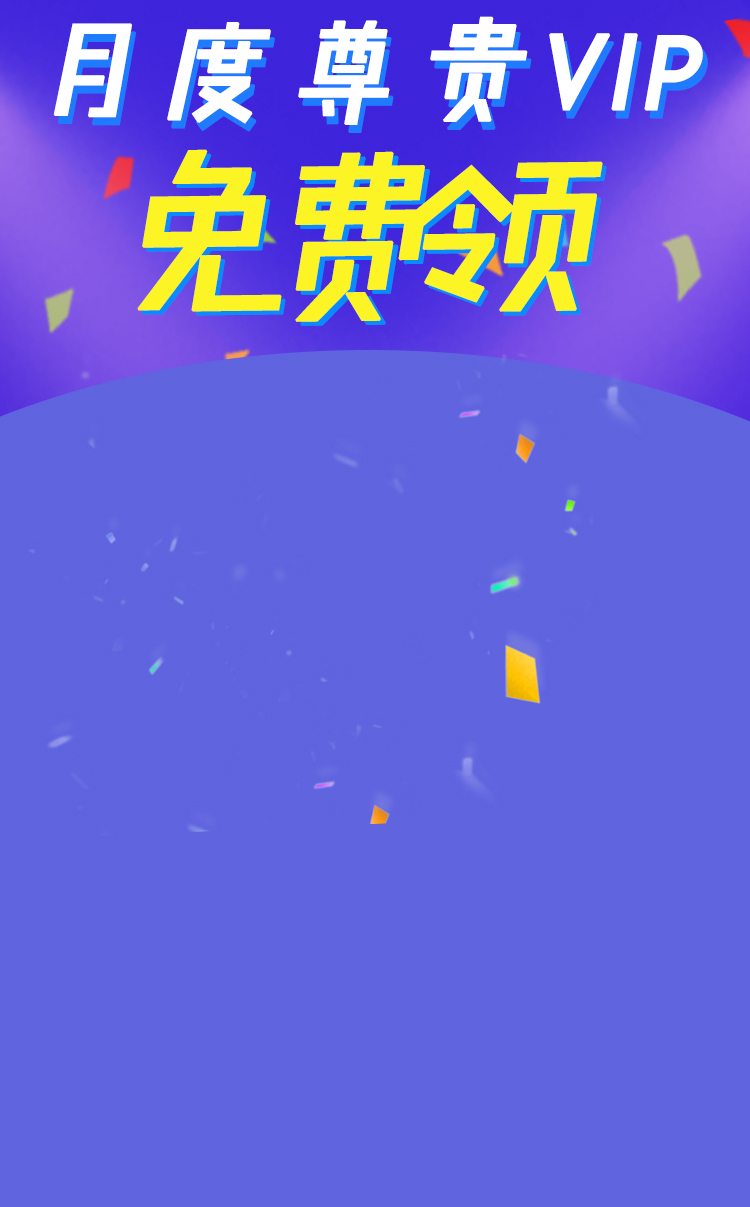
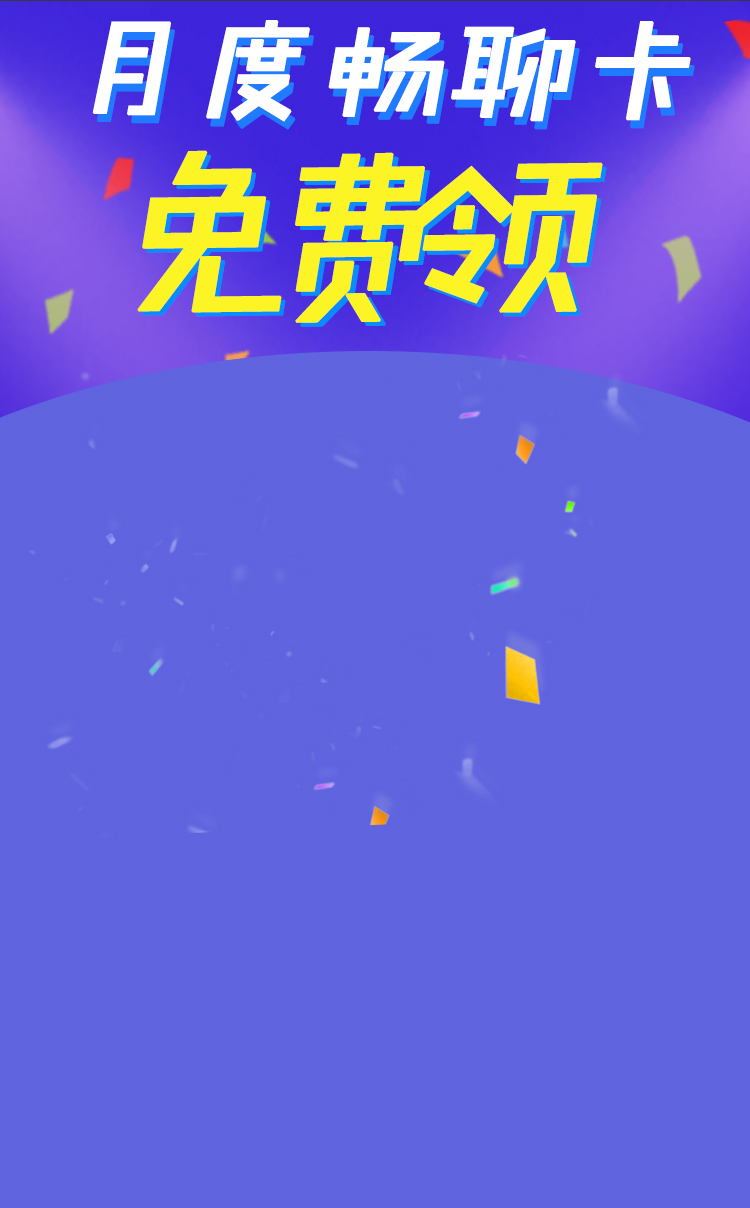
zp

diff --git a/mobile/web/js/cut_price.js b/mobile/web/js/cut_price.js
@@ -9,22 +9,23 @@ require(['jquery', 'mustache', "alpha"],
 			shade: $(".m-popup-shade"),
 			main: $(".m-popup-main"),
 			content: $(".m-popup-content"),
+			last_openid: $("#LAST_OPENID").val(),
+			openid: $("#OPENID").val(),
+			is_share: $("#IS_SHARE").val(),
 		};
 
-
 		var CutUtil = {
-			alert: $(".santa-alert"),
-			content: $(".santa-alert .content"),
-			url: '',
-			gid: '',
-			desc: '',
+			tmp: $("#tpl_item").html(),
+			UL: $(".cut_items ul"),
+			loading: 0,
 			init: function () {
 				var util = this;
+				util.load_cut_list();
 				$sls.main.on(kClick, function () {
 					util.toggle(0);
 				});
 				$(".btn_one_dao").on(kClick, function () {
-					util.toggle(1);
+					util.cut_one_dao();
 				});
 			},
 			toggle: function (f) {
@@ -36,6 +37,53 @@ require(['jquery', 'mustache', "alpha"],
 					$sls.main.hide();
 					$sls.shade.fadeOut();
 				}
+			},
+			cut_one_dao: function () {
+				var util = this;
+				if (util.loading) {
+					return;
+				}
+				util.loading = 1;
+				$.post("/api/cut_price", {
+					tag: 'cut_one_dao',
+					openid: $sls.openid,
+					last_openid: $sls.last_openid,
+				}, function (resp) {
+					util.loading = 0;
+					if (resp.code == 0) {
+						var html = Mustache.render(util.tmp, resp);
+						util.UL.html(html);
+					} else if (resp.code == 128) {
+						alpha.toast(resp.msg, 1);
+						setTimeout(function () {
+							util.toggle(1);
+						}, 1000);
+					} else if (resp.code == 129) {
+						alpha.toast(resp.msg);
+					}
+				}, "json");
+
+			},
+			load_cut_list: function () {
+				var util = this;
+				if (util.loading) {
+					return;
+				}
+				util.loading = 1;
+				$.post("/api/cut_price", {
+					tag: 'load_cut_list',
+					last_openid: $sls.last_openid,
+					openid: $sls.openid,
+					is_share: $sls.is_share,
+				}, function (resp) {
+					util.loading = 0;
+					if (resp.code == 0) {
+						var html = Mustache.render(util.tmp, resp);
+						util.UL.html(html);
+					} else {
+						alpha.toast(resp.msg);
+					}
+				}, "json");
 			}
 		};
 		CutUtil.init();
@@ -53,9 +101,9 @@ require(['jquery', 'mustache', "alpha"],
 		}
 
 		function shareOptions(type) {
-			var linkUrl = "https://wx.meipo100.com/wx/santa";
-			var imgUrl = "https://img.meipo100.com/2017/1225/185307_t.jpg";
-			var title = '千寻恋恋，元旦圣诞并肩作战，快来看看吧！';
+			var linkUrl = "https://wx.meipo100.com/wx/cut_price?is_share=" + $sls.is_share + '&last_openid=' + $sls.last_openid;
+			var imgUrl = "https://mmbiz.qpic.cn/mmbiz_png/MTRtVaxOa9k3Zz628lgicCqklzxtfs3dnbUfBibMUjK9OvXnMDR9hn7rzpI2RsOBpnl1ROWEHmlsZwQcRLlQWmoA/0?wx_fmt=png";
+			var title = '快来帮我砍价得千寻恋恋会员卡啦~~';
 			var desc = '';
 			if (type === 'message') {
 				return {
@@ -66,7 +114,7 @@ require(['jquery', 'mustache', "alpha"],
 					type: '',
 					dataUrl: '',
 					success: function () {
-						shareLog('share', '/wx/santa');
+						//shareLog('share', '/wx/cut_price');
 					}
 				};
 			} else {
@@ -75,7 +123,7 @@ require(['jquery', 'mustache', "alpha"],
 					link: linkUrl,
 					imgUrl: imgUrl,
 					success: function () {
-						shareLog('moment', '/wx/santa');
+						//shareLog('moment', '/wx/cut_price');
 					}
 				};
 			}

diff --git a/common/models/Log.php b/common/models/Log.php
@@ -95,6 +95,7 @@ class Log extends ActiveRecord
 	const CAT_YOUZAN_AUDIT = 8003; // 设置用为为严选师
 	const CAT_YOUZAN_FINANCE = 8004; // 对账信息
 	const CAT_USER_FOCUS = 8005; // 关注取消关注
+	const CAT_USER_CUT_PRICE = 8006; // 关注取消关注
 
 	public static function tableName()
 	{
@@ -436,10 +437,124 @@ class Log extends ActiveRecord
 			$oid = Log::add(["oCategory" => self::CAT_SPRING_FESTIVAL, "oKey" => self::SF_KEY_REDPACKET,
 				"oUId" => $sendUid, "oAfter" => $receivUid, "oBefore" => $amt * 100]);
 
-			 UserTrans::add($sendUid, $oid, UserTrans::CAT_COIN_SPRING_F_SEND, UserTrans::$catDict[UserTrans::CAT_COIN_SPRING_F_SEND], $amt * 100, UserTrans::UNIT_COIN_FEN);
-			 UserTrans::add($receivUid, $oid, UserTrans::CAT_COIN_SPRING_F_RECEIVE, UserTrans::$catDict[UserTrans::CAT_COIN_SPRING_F_RECEIVE], $amt * 100, UserTrans::UNIT_COIN_FEN);
+			UserTrans::add($sendUid, $oid, UserTrans::CAT_COIN_SPRING_F_SEND, UserTrans::$catDict[UserTrans::CAT_COIN_SPRING_F_SEND], $amt * 100, UserTrans::UNIT_COIN_FEN);
+			UserTrans::add($receivUid, $oid, UserTrans::CAT_COIN_SPRING_F_RECEIVE, UserTrans::$catDict[UserTrans::CAT_COIN_SPRING_F_RECEIVE], $amt * 100, UserTrans::UNIT_COIN_FEN);
 		}
 
 		return $amt;
+	}
+
+
+	const KEY_DEFAULT = 3;
+	const KEY_TRANS_CARD = 1;
+
+	public static function cut_one_dao($openid, $last_openid)
+	{
+		if (!$last_openid) {
+			return [129, '为谁砍价呢？', ''];
+		}
+		if ($last_openid == $openid) {
+			return [129, '无法为自己砍价哦~', ''];
+		}
+		$last_user_info = UserWechat::findOne(['wOpenId' => $last_openid]);
+		$user_info = UserWechat::findOne(['wOpenId' => $openid]);
+		if (!$last_user_info || !$user_info) {
+			return [129, '用户信息有误', ''];
+		}
+		if ($user_info->wSubscribe != 1) {
+			return [128, '您还没有关注公众号，请您先关注、再来帮他砍价吧~~', ''];
+		}
+		if ($last_user_info->wSubscribe != 1) {
+			return [129, 'TA还没关注公众号、无法帮他砍价~~', ''];
+		}
+		$uid = $user_info->wUId;
+		$last_uid = $last_user_info->wUId;
+		$tag_mouth = UserTag::CAT_CHAT_MONTH;
+		$cat_cut_price = self::CAT_USER_CUT_PRICE;
+		//是否有月卡
+		$has_card = UserTag::find()
+			->where('tCategory=' . $tag_mouth . ' and tUId=' . $last_uid . ' and tExpiredOn>now() and tDeletedFlag=0 ')
+			->asArray()->one();
+		if ($has_card) {
+			return [129, 'TA还有月度畅聊卡~，砍价无效~', ''];
+		}
+		// 是否已经帮他砍过价
+		$cond = ['oCategory' => $cat_cut_price, 'oKey' => self::KEY_DEFAULT,
+			'oUId' => $last_user_info->wUId, 'oOpenId' => $uid];
+		$has_cut = self::findOne($cond);
+		if ($has_cut) {
+			return [129, '您已经帮他砍过价了~', ''];
+		}
+		// 砍价成功
+		self::add($cond);
+		// 先 获得砍价列表
+		$items = Log::find_cut_price_items($last_uid);
+		//后 判断是否够了赠送月卡的条件
+		$all_cut = self::find()->where($cond)->asArray()->all();
+		if (count($all_cut) > 5) {
+			// 送卡
+			UserTag::add($tag_mouth, $uid);
+			// 推送信息
+
+			// 修改oKey=1
+			self::edit_cut_price($uid);
+		}
+		return [0, '', $items];
+	}
+
+	public static function find_cut_price_items($uid)
+	{
+		$sql = "select l.*,uThumb,uName from im_log as l 
+				left join im_user as u on u.uId=l.oOpenId
+				where oUId=:uid and oKey=:k ";
+		return AppUtil::db()->createCommand($sql)->bindValues([
+			':uid' => $uid,
+			':k' => self::KEY_DEFAULT,
+		])->queryAll();
+	}
+
+	public static function load_cut_list($last_openid, $openid, $is_share = 0)
+	{
+		if ($is_share) {
+			if (!$last_openid) {
+				return [0, '参数错误？', ''];
+			}
+			$last_user_info = UserWechat::findOne(['wOpenId' => $last_openid]);
+			if (!$last_user_info) {
+				return [0, '用户信息有误', ''];
+			}
+			$uid = $last_user_info->wUId;
+		} else {
+			if (!$openid) {
+				return [0, '参数错误？', ''];
+			}
+			$user_info = UserWechat::findOne(['wOpenId' => $openid]);
+			if (!$user_info) {
+				return [0, '用户信息有误', ''];
+			}
+			$uid = $user_info->wUId;
+		}
+		// 千寻客服 是否已经帮他砍过价
+		$cond = ['oCategory' => self::CAT_USER_CUT_PRICE, 'oKey' => self::KEY_DEFAULT,
+			'oUId' => $uid, 'oOpenId' => 120000];
+		$has_cut = self::findOne($cond);
+		if (!$has_cut) {
+			self::add($cond);
+		}
+
+
+		return [0, '', self::find_cut_price_items($uid)];
+	}
+
+	public static function edit_cut_price($uid)
+	{
+		$sql = "update im_log set oKey=:k2 and oAfter=:dt
+				where oUId=:uid and oKey=:k ";
+		return AppUtil::db()->createCommand($sql)->bindValues([
+			':uid' => $uid,
+			':k' => self::KEY_DEFAULT,
+			':k2' => self::KEY_TRANS_CARD,
+			':dt' => date('Y-m-d H:i:s'),
+		])->execute();
 	}
 }

diff --git a/mobile/controllers/ApiController.php b/mobile/controllers/ApiController.php
@@ -1921,6 +1921,29 @@ class ApiController extends Controller
 		return self::renderAPI(129, '操作无效');
 	}
 
+	public function actionCut_price()
+	{
+		$tag = trim(strtolower(self::postParam('tag')));
+		$openid = self::postParam('openid');
+		$last_openid = self::postParam('last_openid');
+		if (!$openid) {
+			$openid = AppUtil::getCookie(self::COOKIE_OPENID);
+		}
+		$wx_info = UserWechat::getInfoByOpenId($openid);
+		switch ($tag) {
+			case 'cut_one_dao':
+				list($code, $msg, $res) = Log::cut_one_dao($openid, $last_openid);
+				return self::renderAPI($code, $msg, $res);
+				break;
+			case "load_cut_list":
+				$is_share = self::postParam("is_share", 0);
+				list($code, $msg, $res) = Log::load_cut_list($last_openid, $openid, intval($is_share));
+				return self::renderAPI($code, $msg, $res);
+				break;
+		}
+		return self::renderAPI(129, '操作无效');
+	}
+
 	public function actionRedpacket()
 	{
 		$tag = trim(strtolower(self::postParam('tag')));

diff --git a/mobile/controllers/WxController.php b/mobile/controllers/WxController.php
@@ -2157,14 +2157,17 @@ class WxController extends BaseController
 	{
 		$is_share = self::getParam('is_share', 0);
 
-		$last_openid = self::getParam('lopenid');
-		$wxUserInfo = UserWechat::getInfoByOpenId($last_openid);
+		// 中央音乐学院
+		$last_openid = self::getParam('lopenid', 'oYDJew5MfQtAT12g3Ocso0OKLMyA');
+		$last_user_info = UserWechat::getInfoByOpenId($last_openid);
 
 		return self::renderPage("cut_price.tpl",
 			[
 				'uid' => $this->user_id,
+				'openid' => self::$WX_OpenId,
+				'last_user_info' => $last_user_info,
+				'last_user_info_json' => AppUtil::json_encode($last_user_info),
 				'is_share' => $is_share,
-				'avatar' => $this->user_avatar,
 
 			],
 			'terse',

diff --git a/mobile/controllers/BaseController.php b/mobile/controllers/BaseController.php
@@ -121,7 +121,8 @@ class BaseController extends Controller
 
 		$newActionId = $anchor = '';
 		$safeActions = ['share', 'invite', "pin8", "otherpart", 'vote', 'voted', 'trophy',
-			'reg0', 'sh', 'enroll', 'enroll2', 'expand', 'shares', 'groom', 'share28', 'share106', 'everyredpacket', 'jasmine'];
+			'reg0', 'sh', 'enroll', 'enroll2', 'expand', 'shares', 'groom', 'share28', 'share106',
+			'everyredpacket', 'jasmine', 'cut_price'];
 		if (in_array($actionId, $safeActions)) {
 			return;
 		}

diff --git a/console/controllers/FooController.php b/console/controllers/FooController.php
@@ -1446,8 +1446,12 @@ class FooController extends Controller
 
 		// UserWechat::refreshWXInfo('oYDJewwqr9m_nHTtJrv0Ifxg9CWg', 1);
 
-		WechatUtil::toAllUserTempMsg();
+		// WechatUtil::toAllUserTempMsg();
 
+		$has_card = UserTag::find()
+			->where('tCategory='.UserTag::CAT_CHAT_MONTH.' and tUId=120003'.' and tExpiredOn>now() and tDeletedFlag=0 ')
+			->asArray()->one();
+		print_r($has_card);
 	}
 
 	public function actionYz()
